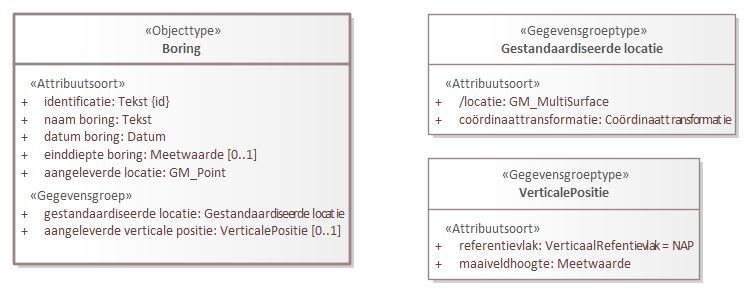
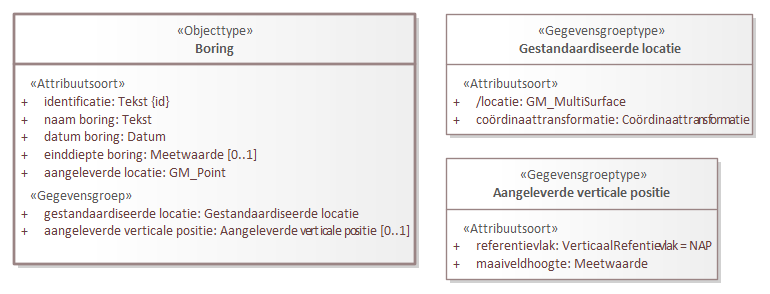
Conceptualmodel-MilieuhygienischbodemonderzoekSAD-0.2-1-20230126-20230221-133910

diff --git a/data/SAD-cat.msword.html b/data/SAD-cat.msword.html
@@ -15,7 +15,7 @@
    <body>
       <p>Conceptual model/Milieuhygienisch bodemonderzoek SAD/20230126</p>
       <p>Imvertor: 2.0.0</p>
-      <p>Model release: Conceptualmodel-MilieuhygienischbodemonderzoekSAD-0.2-1-20230126-20230221-130807</p>
+      <p>Model release: Conceptualmodel-MilieuhygienischbodemonderzoekSAD-0.2-1-20230126-20230221-133910</p>
       <hr>
       <section>
          <h1>Artikel 1 Definitie van registratieobject, entiteiten en attributen</h1>
@@ -65,7 +65,7 @@
          <section>
             <h2>Het domeinmodel</h2>
             <section id="">
-               <div class="imageinfo overview"><img src="Images/EAID_FABA90F8_223C_433d_BAE3_74F87B3DC220.png" usemap="#imagemap-EAID_FABA90F8_223C_433d_BAE3_74F87B3DC220" alt="Diagram &#xA;                        &#xA;                     "><map name="imagemap-EAID_FABA90F8_223C_433d_BAE3_74F87B3DC220"><area shape="rect" alt="Bodemlaag" coords="606,741,901,974" href="#graph_EAID_88CF9E45_3E0E_40da_96C1_2CDD80B69F6F"><area shape="rect" alt="Boring" coords="31,730,368,981" href="#graph_EAID_40FFF5B9_99C5_4c21_9D72_A3D1DD3C857F"><area shape="rect" alt="Registratieobject" coords="45,14,353,188" href="#graph_EAID_67DBE718_38E0_4ead_8649_72EA0B4A2355"><area shape="rect" alt="Bodemonderzoek" coords="14,267,385,607" href="#graph_EAID_ABAADB49_C747_4775_A739_CC832CAD59F1"></map><p><b>Domeinmodel milieuhygienisch bodemonderzoek</b></p>
+               <div class="imageinfo overview"><img src="Images/EAID_FABA90F8_223C_433d_BAE3_74F87B3DC220.png" usemap="#imagemap-EAID_FABA90F8_223C_433d_BAE3_74F87B3DC220" alt="Diagram &#xA;                        &#xA;                     "><map name="imagemap-EAID_FABA90F8_223C_433d_BAE3_74F87B3DC220"><area shape="rect" alt="Bodemlaag" coords="606,741,901,974" href="#graph_EAID_88CF9E45_3E0E_40da_96C1_2CDD80B69F6F"><area shape="rect" alt="Boring" coords="31,730,434,981" href="#graph_EAID_40FFF5B9_99C5_4c21_9D72_A3D1DD3C857F"><area shape="rect" alt="Registratieobject" coords="45,14,353,188" href="#graph_EAID_67DBE718_38E0_4ead_8649_72EA0B4A2355"><area shape="rect" alt="Bodemonderzoek" coords="14,267,385,607" href="#graph_EAID_ABAADB49_C747_4775_A739_CC832CAD59F1"></map><p><b>Domeinmodel milieuhygienisch bodemonderzoek</b></p>
                </div>
             </section>
          </section>
@@ -1549,7 +1549,7 @@
                      </section>
                </section><a class="anchor" id="graph_EAID_40FFF5B9_99C5_4c21_9D72_A3D1DD3C857F"></a><a class="anchor" id="global_class_Model_Boring"></a><section id="global_class_Model_Boring">
                   <h3>   Boring</h3>
-                  <div class="imageinfo "><img src="Images/EAID_48BB49BC_4D65_45ad_AED4_007A19BB43F2.png" usemap="#imagemap-EAID_48BB49BC_4D65_45ad_AED4_007A19BB43F2" alt="Diagram "><map name="imagemap-EAID_48BB49BC_4D65_45ad_AED4_007A19BB43F2"><area shape="rect" alt="Gestandaardiseerde locatie" coords="428,14,736,135" href="#graph_EAID_69CFF81C_3747_43f5_8293_34D1745DEB53"><area shape="rect" alt="VerticalePositie" coords="428,158,700,280" href="#graph_EAID_1E52594C_6770_4a6a_A72F_F625CA2432F2"><area shape="rect" alt="Boring" coords="14,14,351,265" href="#graph_EAID_40FFF5B9_99C5_4c21_9D72_A3D1DD3C857F"></map><p><b></b></p>
+                  <div class="imageinfo "><img src="Images/EAID_48BB49BC_4D65_45ad_AED4_007A19BB43F2.png" usemap="#imagemap-EAID_48BB49BC_4D65_45ad_AED4_007A19BB43F2" alt="Diagram "><map name="imagemap-EAID_48BB49BC_4D65_45ad_AED4_007A19BB43F2"><area shape="rect" alt="Gestandaardiseerde locatie" coords="446,14,753,135" href="#graph_EAID_69CFF81C_3747_43f5_8293_34D1745DEB53"><area shape="rect" alt="Aangeleverde verticale positie" coords="446,158,718,280" href="#graph_EAID_1E52594C_6770_4a6a_A72F_F625CA2432F2"><area shape="rect" alt="Boring" coords="14,14,416,265" href="#graph_EAID_40FFF5B9_99C5_4c21_9D72_A3D1DD3C857F"></map><p><b></b></p>
                   </div>
                   <table style="width: 100%;">
                      <colgroup style="width: 30%;"></colgroup>
@@ -1845,7 +1845,7 @@
                            <tr>
                               <th>Gegevensgroeptype</th>
                               <td>
-                                 <a class="link" href="#global_class_Model_VerticalePositie">VerticalePositie</a>
+                                 <a class="link" href="#global_class_Model_Aangeleverdeverticalepositie">Aangeleverde verticale positie</a>
                                  </td>
                            </tr>
                         </tbody>
@@ -1892,9 +1892,9 @@
                         </tbody>
                      </table>
                   </section>
-               </section><a class="anchor" id="graph_EAID_1E52594C_6770_4a6a_A72F_F625CA2432F2"></a><a class="anchor" id="global_class_Model_VerticalePositie"></a><section id="global_class_Model_VerticalePositie">
-                  <h3>   VerticalePositie</h3>
-                  <div class="imageinfo "><img src="Images/EAID_D8905903_B357_47e0_9CBB_F6C50061E3FC.png" usemap="#imagemap-EAID_D8905903_B357_47e0_9CBB_F6C50061E3FC" alt="Diagram "><map name="imagemap-EAID_D8905903_B357_47e0_9CBB_F6C50061E3FC"><area shape="rect" alt="VerticalePositie" coords="14,14,285,135" href="#graph_EAID_1E52594C_6770_4a6a_A72F_F625CA2432F2"></map><p><b></b></p>
+               </section><a class="anchor" id="graph_EAID_1E52594C_6770_4a6a_A72F_F625CA2432F2"></a><a class="anchor" id="global_class_Model_Aangeleverdeverticalepositie"></a><section id="global_class_Model_Aangeleverdeverticalepositie">
+                  <h3>   Aangeleverde verticale positie</h3>
+                  <div class="imageinfo "><img src="Images/EAID_D8905903_B357_47e0_9CBB_F6C50061E3FC.png" usemap="#imagemap-EAID_D8905903_B357_47e0_9CBB_F6C50061E3FC" alt="Diagram "><map name="imagemap-EAID_D8905903_B357_47e0_9CBB_F6C50061E3FC"><area shape="rect" alt="Aangeleverde verticale positie" coords="14,14,285,135" href="#graph_EAID_1E52594C_6770_4a6a_A72F_F625CA2432F2"></map><p><b></b></p>
                   </div>
                   <table style="width: 100%;">
                      <colgroup style="width: 30%;"></colgroup>
@@ -1913,7 +1913,7 @@
                               </td>
                         </tr>
                      </tbody>
-                  </table><a class="anchor" id="detail_attribute_Model_VerticalePositie_referentievlak"></a><section id="detail_attribute_Model_VerticalePositie_referentievlak">
+                  </table><a class="anchor" id="detail_attribute_Model_Aangeleverdeverticalepositie_referentievlak"></a><section id="detail_attribute_Model_Aangeleverdeverticalepositie_referentievlak">
                      <h4>  referentievlak</h4>
                      
                      <table style="width: 100%;">
@@ -1922,7 +1922,7 @@
                         <tbody>
                            <tr>
                               <th>Type gegeven</th>
-                              <td>Attribuut van VerticalePositie</td>
+                              <td>Attribuut van Aangeleverde verticale positie</td>
                            </tr>
                            <tr>
                               <th>Definitie</th>
@@ -1962,7 +1962,7 @@
                            </tr>
                         </tbody>
                      </table>
-                     </section><a class="anchor" id="detail_attribute_Model_VerticalePositie_maaiveldhoogte"></a><section id="detail_attribute_Model_VerticalePositie_maaiveldhoogte">
+                     </section><a class="anchor" id="detail_attribute_Model_Aangeleverdeverticalepositie_maaiveldhoogte"></a><section id="detail_attribute_Model_Aangeleverdeverticalepositie_maaiveldhoogte">
                      <h4>  maaiveldhoogte</h4>
                      
                      <table style="width: 100%;">
@@ -1971,7 +1971,7 @@
                         <tbody>
                            <tr>
                               <th>Type gegeven</th>
-                              <td>Attribuut van VerticalePositie</td>
+                              <td>Attribuut van Aangeleverde verticale positie</td>
                            </tr>
                            <tr>
                               <th>Definitie</th>
@@ -2099,8 +2099,7 @@
                               <th>Definitie</th>
                               <td>
                                  
-                                 <p>Bovenkant/begin van de laag.
-                                    <strong>*Moeten we hier iets met het referentievlak of standaard tov maaiveld hanteren?????</strong>*</p>
+                                 <p>De diepte van de bovenkant van de laag.</p>
                                  </td>
                            </tr>
                            <tr>
@@ -2154,8 +2153,7 @@
                               <th>Definitie</th>
                               <td>
                                  
-                                 <p>Onderkant/eind van de laag.
-                                    <strong>*Moeten we hier iets met het referentievlak of standaard tov maaiveld hanteren?????</strong>*</p>
+                                 <p>De diepte van de onderkant van de laag.</p>
                                  </td>
                            </tr>
                            <tr>
@@ -2187,8 +2185,8 @@
                               <th>Regels</th>
                               <td>
                                  
-                                 <p>De <em>diepteTot</em> moet groter zijn dan de <em>diepteVan</em>
-                                    De <em>diepteTot</em> mag niet groter zijn dan de <em>einddiepte</em> van de boring</p>
+                                 <p>De <em>ondergrens</em> moet groter zijn dan de <em>bovengrens</em> van de laag.<br clear="none">
+                                    De <em>ondergrens</em> van de onderste laag mag niet groter zijn dan de waarde van het attribuut <em>einddiepte bemonstering</em> van de entiteit <em>Boring</em>.</p>
                                  </td>
                            </tr>
                         </tbody>
@@ -2236,7 +2234,7 @@
                            </tr>
                         </tbody>
                      </table>
-                     </section><a class="anchor" id="detail_d68486e9589"></a><section id="detail_d68486e9589">
+                     </section><a class="anchor" id="detail_d68486e9584"></a><section id="detail_d68486e9584">
                      <h4>  grond</h4>
                      <table style="width: 100%;">
                         <colgroup style="width: 30%;"></colgroup>
@@ -2269,7 +2267,7 @@
                            </tr>
                         </tbody>
                      </table>
-                  </section><a class="anchor" id="detail_d68486e9774"></a><section id="detail_d68486e9774">
+                  </section><a class="anchor" id="detail_d68486e9769"></a><section id="detail_d68486e9769">
                      <h4>  bijzonderheid</h4>
                      <table style="width: 100%;">
                         <colgroup style="width: 30%;"></colgroup>
@@ -2390,7 +2388,8 @@
                               <td>
                                  
                                  <p>Nadere karakterisering van de zand - en grindfractie  op basis van de mediaan (conform
-                                    NEN5104).</p>
+                                    NEN5104). Betreft de korrelgrootte waarbij de ractie van een mengsel in twee massadelen
+                                    van 50 % is verdeeld.</p>
                                  </td>
                            </tr>
                            <tr>

diff --git a/data/SAD-cat.respec.html b/data/SAD-cat.respec.html
@@ -43,7 +43,7 @@
       </section>
    <section id="">
       <h2>Het domeinmodel   </h2>
-      <div class="imageinfo overview"><img src="data/Images/EAID_FABA90F8_223C_433d_BAE3_74F87B3DC220.png" usemap="#imagemap-EAID_FABA90F8_223C_433d_BAE3_74F87B3DC220" alt="Diagram &#xA;                        &#xA;                     "><map name="imagemap-EAID_FABA90F8_223C_433d_BAE3_74F87B3DC220"><area shape="rect" alt="Bodemlaag" coords="606,741,901,974" href="#graph_EAID_88CF9E45_3E0E_40da_96C1_2CDD80B69F6F"><area shape="rect" alt="Boring" coords="31,730,368,981" href="#graph_EAID_40FFF5B9_99C5_4c21_9D72_A3D1DD3C857F"><area shape="rect" alt="Registratieobject" coords="45,14,353,188" href="#graph_EAID_67DBE718_38E0_4ead_8649_72EA0B4A2355"><area shape="rect" alt="Bodemonderzoek" coords="14,267,385,607" href="#graph_EAID_ABAADB49_C747_4775_A739_CC832CAD59F1"></map><p><b>Domeinmodel milieuhygienisch bodemonderzoek</b></p>
+      <div class="imageinfo overview"><img src="data/Images/EAID_FABA90F8_223C_433d_BAE3_74F87B3DC220.png" usemap="#imagemap-EAID_FABA90F8_223C_433d_BAE3_74F87B3DC220" alt="Diagram &#xA;                        &#xA;                     "><map name="imagemap-EAID_FABA90F8_223C_433d_BAE3_74F87B3DC220"><area shape="rect" alt="Bodemlaag" coords="606,741,901,974" href="#graph_EAID_88CF9E45_3E0E_40da_96C1_2CDD80B69F6F"><area shape="rect" alt="Boring" coords="31,730,434,981" href="#graph_EAID_40FFF5B9_99C5_4c21_9D72_A3D1DD3C857F"><area shape="rect" alt="Registratieobject" coords="45,14,353,188" href="#graph_EAID_67DBE718_38E0_4ead_8649_72EA0B4A2355"><area shape="rect" alt="Bodemonderzoek" coords="14,267,385,607" href="#graph_EAID_ABAADB49_C747_4775_A739_CC832CAD59F1"></map><p><b>Domeinmodel milieuhygienisch bodemonderzoek</b></p>
       </div>
    </section>
    <section id="">
@@ -1525,7 +1525,7 @@
             </section>
       </section><a class="anchor" id="graph_EAID_40FFF5B9_99C5_4c21_9D72_A3D1DD3C857F"></a><a class="anchor" id="global_class_Model_Boring"></a><section id="global_class_Model_Boring">
          <h3>   Boring</h3>
-         <div class="imageinfo "><img src="data/Images/EAID_48BB49BC_4D65_45ad_AED4_007A19BB43F2.png" usemap="#imagemap-EAID_48BB49BC_4D65_45ad_AED4_007A19BB43F2" alt="Diagram "><map name="imagemap-EAID_48BB49BC_4D65_45ad_AED4_007A19BB43F2"><area shape="rect" alt="Gestandaardiseerde locatie" coords="428,14,736,135" href="#graph_EAID_69CFF81C_3747_43f5_8293_34D1745DEB53"><area shape="rect" alt="VerticalePositie" coords="428,158,700,280" href="#graph_EAID_1E52594C_6770_4a6a_A72F_F625CA2432F2"><area shape="rect" alt="Boring" coords="14,14,351,265" href="#graph_EAID_40FFF5B9_99C5_4c21_9D72_A3D1DD3C857F"></map><p><b></b></p>
+         <div class="imageinfo "><img src="data/Images/EAID_48BB49BC_4D65_45ad_AED4_007A19BB43F2.png" usemap="#imagemap-EAID_48BB49BC_4D65_45ad_AED4_007A19BB43F2" alt="Diagram "><map name="imagemap-EAID_48BB49BC_4D65_45ad_AED4_007A19BB43F2"><area shape="rect" alt="Gestandaardiseerde locatie" coords="446,14,753,135" href="#graph_EAID_69CFF81C_3747_43f5_8293_34D1745DEB53"><area shape="rect" alt="Aangeleverde verticale positie" coords="446,158,718,280" href="#graph_EAID_1E52594C_6770_4a6a_A72F_F625CA2432F2"><area shape="rect" alt="Boring" coords="14,14,416,265" href="#graph_EAID_40FFF5B9_99C5_4c21_9D72_A3D1DD3C857F"></map><p><b></b></p>
          </div>
          <table style="width: 100%;">
             <colgroup style="width: 30%;"></colgroup>
@@ -1821,7 +1821,7 @@
                   <tr>
                      <th>Gegevensgroeptype</th>
                      <td>
-                        <a class="link" href="#global_class_Model_VerticalePositie">VerticalePositie</a>
+                        <a class="link" href="#global_class_Model_Aangeleverdeverticalepositie">Aangeleverde verticale positie</a>
                         </td>
                   </tr>
                </tbody>
@@ -1868,9 +1868,9 @@
                </tbody>
             </table>
          </section>
-      </section><a class="anchor" id="graph_EAID_1E52594C_6770_4a6a_A72F_F625CA2432F2"></a><a class="anchor" id="global_class_Model_VerticalePositie"></a><section id="global_class_Model_VerticalePositie">
-         <h3>   VerticalePositie</h3>
-         <div class="imageinfo "><img src="data/Images/EAID_D8905903_B357_47e0_9CBB_F6C50061E3FC.png" usemap="#imagemap-EAID_D8905903_B357_47e0_9CBB_F6C50061E3FC" alt="Diagram "><map name="imagemap-EAID_D8905903_B357_47e0_9CBB_F6C50061E3FC"><area shape="rect" alt="VerticalePositie" coords="14,14,285,135" href="#graph_EAID_1E52594C_6770_4a6a_A72F_F625CA2432F2"></map><p><b></b></p>
+      </section><a class="anchor" id="graph_EAID_1E52594C_6770_4a6a_A72F_F625CA2432F2"></a><a class="anchor" id="global_class_Model_Aangeleverdeverticalepositie"></a><section id="global_class_Model_Aangeleverdeverticalepositie">
+         <h3>   Aangeleverde verticale positie</h3>
+         <div class="imageinfo "><img src="data/Images/EAID_D8905903_B357_47e0_9CBB_F6C50061E3FC.png" usemap="#imagemap-EAID_D8905903_B357_47e0_9CBB_F6C50061E3FC" alt="Diagram "><map name="imagemap-EAID_D8905903_B357_47e0_9CBB_F6C50061E3FC"><area shape="rect" alt="Aangeleverde verticale positie" coords="14,14,285,135" href="#graph_EAID_1E52594C_6770_4a6a_A72F_F625CA2432F2"></map><p><b></b></p>
          </div>
          <table style="width: 100%;">
             <colgroup style="width: 30%;"></colgroup>
@@ -1889,7 +1889,7 @@
                      </td>
                </tr>
             </tbody>
-         </table><a class="anchor" id="detail_attribute_Model_VerticalePositie_referentievlak"></a><section id="detail_attribute_Model_VerticalePositie_referentievlak">
+         </table><a class="anchor" id="detail_attribute_Model_Aangeleverdeverticalepositie_referentievlak"></a><section id="detail_attribute_Model_Aangeleverdeverticalepositie_referentievlak">
             <h4>  referentievlak</h4>
             
             <table style="width: 100%;">
@@ -1898,7 +1898,7 @@
                <tbody>
                   <tr>
                      <th>Type gegeven</th>
-                     <td>Attribuut van VerticalePositie</td>
+                     <td>Attribuut van Aangeleverde verticale positie</td>
                   </tr>
                   <tr>
                      <th>Definitie</th>
@@ -1938,7 +1938,7 @@
                   </tr>
                </tbody>
             </table>
-            </section><a class="anchor" id="detail_attribute_Model_VerticalePositie_maaiveldhoogte"></a><section id="detail_attribute_Model_VerticalePositie_maaiveldhoogte">
+            </section><a class="anchor" id="detail_attribute_Model_Aangeleverdeverticalepositie_maaiveldhoogte"></a><section id="detail_attribute_Model_Aangeleverdeverticalepositie_maaiveldhoogte">
             <h4>  maaiveldhoogte</h4>
             
             <table style="width: 100%;">
@@ -1947,7 +1947,7 @@
                <tbody>
                   <tr>
                      <th>Type gegeven</th>
-                     <td>Attribuut van VerticalePositie</td>
+                     <td>Attribuut van Aangeleverde verticale positie</td>
                   </tr>
                   <tr>
                      <th>Definitie</th>
@@ -2075,8 +2075,7 @@
                      <th>Definitie</th>
                      <td>
                         
-                        <p>Bovenkant/begin van de laag.
-                           <strong>*Moeten we hier iets met het referentievlak of standaard tov maaiveld hanteren?????</strong>*</p>
+                        <p>De diepte van de bovenkant van de laag.</p>
                         </td>
                   </tr>
                   <tr>
@@ -2130,8 +2129,7 @@
                      <th>Definitie</th>
                      <td>
                         
-                        <p>Onderkant/eind van de laag.
-                           <strong>*Moeten we hier iets met het referentievlak of standaard tov maaiveld hanteren?????</strong>*</p>
+                        <p>De diepte van de onderkant van de laag.</p>
                         </td>
                   </tr>
                   <tr>
@@ -2163,8 +2161,8 @@
                      <th>Regels</th>
                      <td>
                         
-                        <p>De <em>diepteTot</em> moet groter zijn dan de <em>diepteVan</em>
-                           De <em>diepteTot</em> mag niet groter zijn dan de <em>einddiepte</em> van de boring</p>
+                        <p>De <em>ondergrens</em> moet groter zijn dan de <em>bovengrens</em> van de laag.<br clear="none">
+                           De <em>ondergrens</em> van de onderste laag mag niet groter zijn dan de waarde van het attribuut <em>einddiepte bemonstering</em> van de entiteit <em>Boring</em>.</p>
                         </td>
                   </tr>
                </tbody>
@@ -2212,7 +2210,7 @@
                   </tr>
                </tbody>
             </table>
-            </section><a class="anchor" id="detail_d68486e9589"></a><section id="detail_d68486e9589">
+            </section><a class="anchor" id="detail_d68486e9584"></a><section id="detail_d68486e9584">
             <h4>  grond</h4>
             <table style="width: 100%;">
                <colgroup style="width: 30%;"></colgroup>
@@ -2245,7 +2243,7 @@
                   </tr>
                </tbody>
             </table>
-         </section><a class="anchor" id="detail_d68486e9774"></a><section id="detail_d68486e9774">
+         </section><a class="anchor" id="detail_d68486e9769"></a><section id="detail_d68486e9769">
             <h4>  bijzonderheid</h4>
             <table style="width: 100%;">
                <colgroup style="width: 30%;"></colgroup>
@@ -2366,7 +2364,8 @@
                      <td>
                         
                         <p>Nadere karakterisering van de zand - en grindfractie  op basis van de mediaan (conform
-                           NEN5104).</p>
+                           NEN5104). Betreft de korrelgrootte waarbij de ractie van een mengsel in twee massadelen
+                           van 50 % is verdeeld.</p>
                         </td>
                   </tr>
                   <tr>
